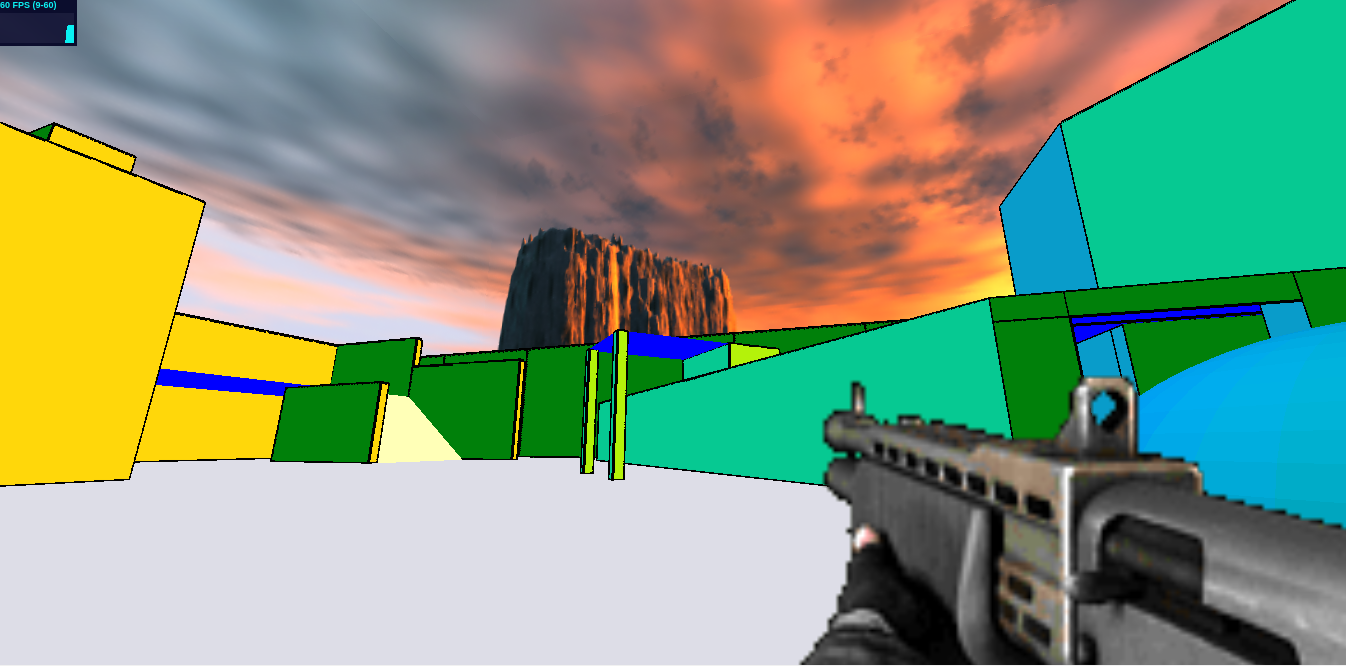
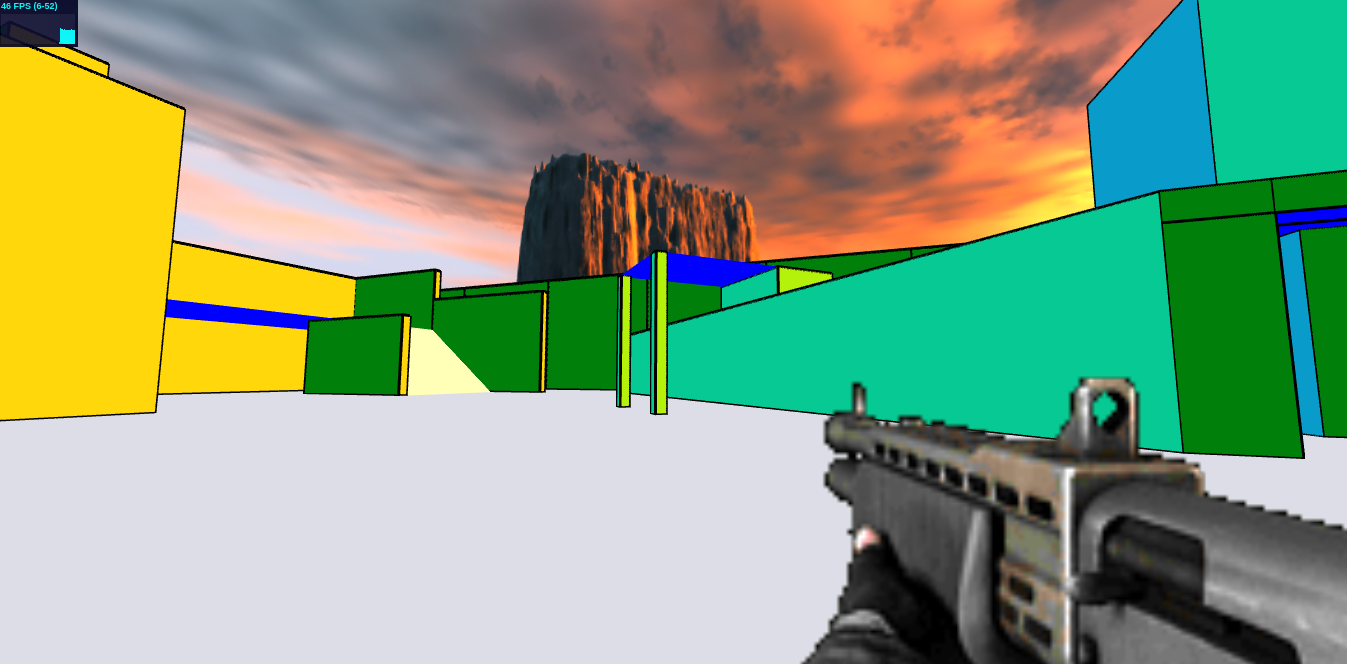
now antialiasing

diff --git a/assets/js/dest.js b/assets/js/dest.js
@@ -2819,7 +2819,7 @@ function init() {
   sprite.scale.set( 100, 64, 1.0 ); // imageWidth, imageHeight
   scene.add( sprite );
 
-  renderer = new THREE.WebGLRenderer();
+  renderer = new THREE.WebGLRenderer({ antialias: true });
   renderer.setClearColor( 0xf0f0f0 );
   renderer.setPixelRatio( window.devicePixelRatio );
   renderer.setSize( window.innerWidth, window.innerHeight );

diff --git a/user/scene.js b/user/scene.js
@@ -272,7 +272,7 @@ function init() {
   sprite.scale.set( 100, 64, 1.0 ); // imageWidth, imageHeight
   scene.add( sprite );
 
-  renderer = new THREE.WebGLRenderer();
+  renderer = new THREE.WebGLRenderer({ antialias: true });
   renderer.setClearColor( 0xf0f0f0 );
   renderer.setPixelRatio( window.devicePixelRatio );
   renderer.setSize( window.innerWidth, window.innerHeight );
